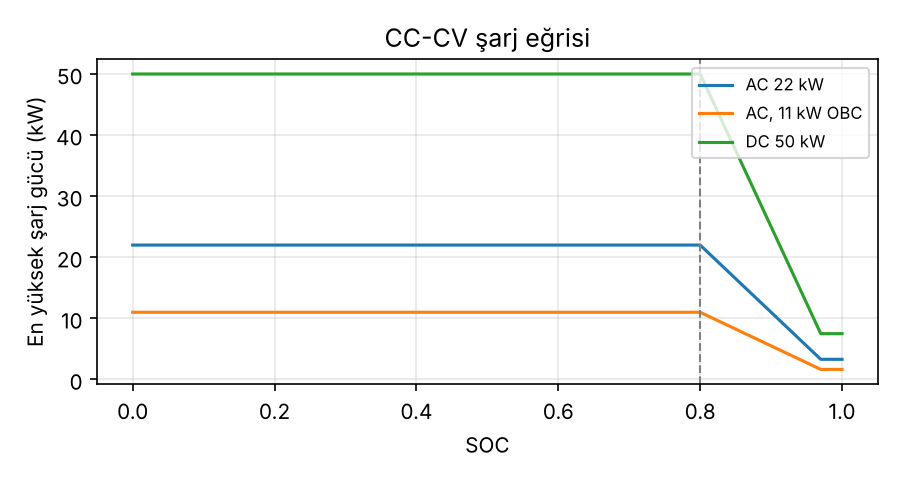
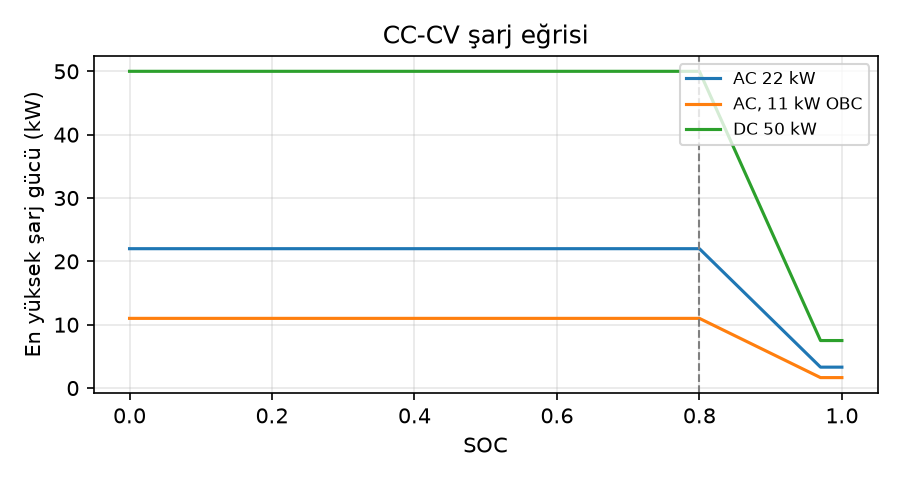
YM-2: grafikler gerçek veriyle yeniden üretildi

Changed region(s): [[0.0311, 0.0312, 0.9956, 0.9062], [0.84, 0.4062, 0.8711, 0.5312], [0.4978, 0.9062, 0.56, 0.9375]]

diff --git a/docs/rapor/ym2-memnuniyet.md b/docs/rapor/ym2-memnuniyet.md
@@ -1,4 +1,4 @@
-Girdi: sahte, Haziran temsili günü
+Girdi: gercek, Haziran temsili günü
 
 | index | S2 Kontrolsüz şarj | S3 Akıllı şarj (geçici) | S2, nöbetleşe kapalı |
 | --- | --- | --- | --- |
